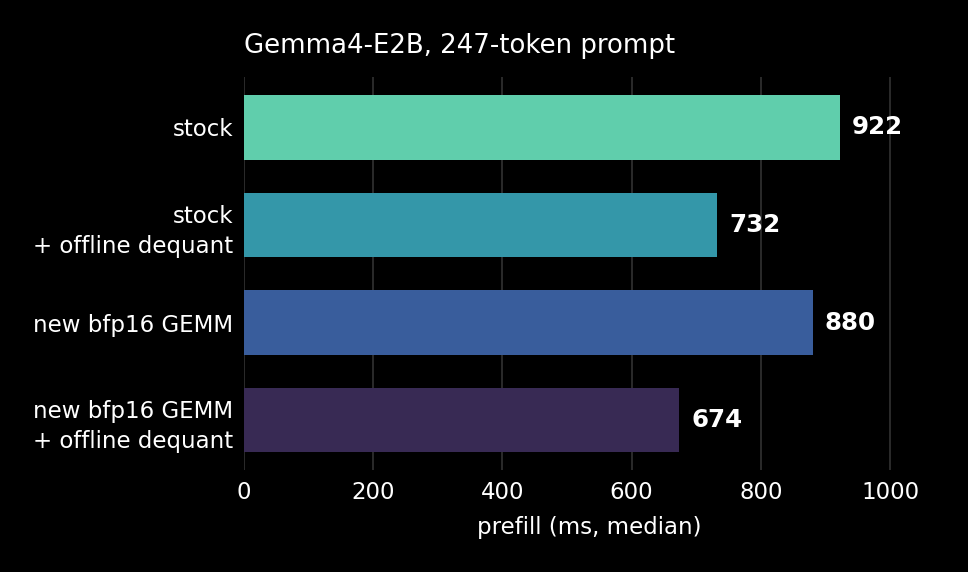
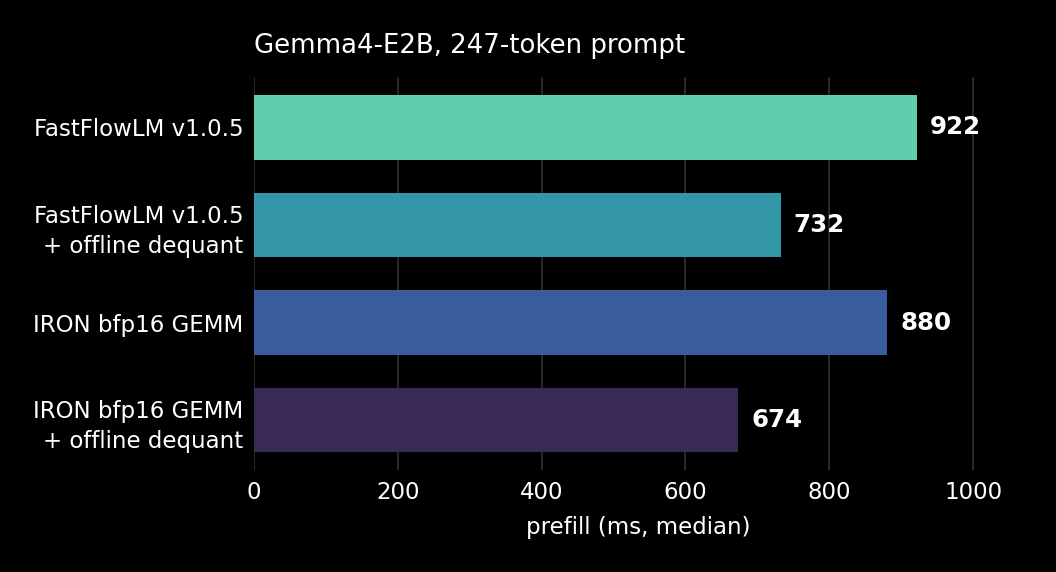
plugins: name the configurations rather than rank them
The README framed the plugin against a baseline it called "stock" and described
its GEMM as the faster kernel. Both are now named for what they are: the
measured engine is FastFlowLM v1.0.5, which is the version the numbers were
taken on, and the override is the IRON bfp16 GEMM. The chart carries the same
two names.

The options are described by what they do and what they cost -- disk and memory
for prefill time, bfp16 rather than bf16 weights -- and the four measurements
are left to speak for themselves.

diff --git a/src/plugins/flm_gemm/tools/plot_prefill.py b/src/plugins/flm_gemm/tools/plot_prefill.py
@@ -18,11 +18,12 @@ import matplotlib.pyplot as plt
 import seaborn as sns
 
 # Bench label -> how the bar reads. Two independent options, so four points.
+BASE = "FastFlowLM v1.0.5"
 NAMES = {
-    "stock": "stock",
-    "bf16": "stock\n+ offline dequant",
-    "dequant": "new bfp16 GEMM",
-    "bfp16": "new bfp16 GEMM\n+ offline dequant",
+    "stock": BASE,
+    "bf16": f"{BASE}\n+ offline dequant",
+    "dequant": "IRON bfp16 GEMM",
+    "bfp16": "IRON bfp16 GEMM\n+ offline dequant",
 }
 
 runs = dict(re.findall(r"^(\S+): median ([\d.]+)", sys.stdin.read(), re.M))
@@ -34,7 +35,7 @@ labels = [b[0] for b in bars]
 values = [b[1] for b in bars]
 
 plt.style.use("dark_background")
-fig, ax = plt.subplots(figsize=(4.4, 2.6), dpi=220)
+fig, ax = plt.subplots(figsize=(4.8, 2.6), dpi=220)
 ax.barh(range(len(values)), values, color=sns.color_palette("mako_r", len(values)),
         height=0.66, edgecolor="none", zorder=3)
 
@@ -43,7 +44,7 @@ for i, value in enumerate(values):
             fontsize=8, fontweight="bold")
 
 ax.set_yticks(range(len(labels)))
-ax.set_yticklabels(labels, fontsize=7.5, linespacing=1.4)
+ax.set_yticklabels(labels, fontsize=7, linespacing=1.4)
 ax.invert_yaxis()
 ax.set_xlim(0, max(values) * 1.16)
 ax.set_xlabel("prefill (ms, median)", fontsize=7.5)

diff --git a/src/plugins/README.md b/src/plugins/README.md
@@ -5,18 +5,21 @@ Plugins let you override individual operators in the end-to-end model without
 rebuilding `flm` or any engine library.
 
 We demonstrate it with a plugin in [`flm_gemm/`](flm_gemm) that overrides two
-operators in Gemma4 E2B: dequant and matrix multiplication. It enables two
-options, independently:
+operators in Gemma4 E2B: dequant and matrix multiplication. It adds two options,
+independently selectable:
 
 - **Offline dequant.** Stops dequantizing the prefill weights at run time.
   Already-dequantized weights (bf16 or bfp16, depending on the option below) are
-  loaded from disk and the dequant step is overridden with a no-op. Faster
-  prefill, more disk and more memory.
-- **New IRON bfp16 GEMM.** Replaces FastFlowLM's matrix multiplication with an
-  open-source implementation from IRON, whose source is
-  [here](https://github.com/amd/IRON/tree/devel/iron/operators/flm/gemm). It is a
-  faster kernel than stock. It operates on bfp16 (block floating point) where the
-  original operates on bf16, so the dequant operator has to be replaced too.
+  loaded from disk and the dequant step is overridden with a no-op. It trades
+  disk and memory for prefill time.
+- **IRON bfp16 GEMM.** Runs the projections on an open-source matrix
+  multiplication from IRON, whose source is
+  [here](https://github.com/amd/IRON/tree/devel/iron/operators/flm/gemm). It
+  operates on bfp16 (block floating point) rather than bf16, so it needs its
+  weights in that format and the dequant operator is replaced along with it.
+
+Prefill of a 247-token prompt on Strix, for each combination, measured on
+FastFlowLM v1.0.5:
 
 ![prefill medians](assets/prefill.png)
 
@@ -92,18 +95,18 @@ nothing was built for is a run-time fallback to the engine.
 
 | variable | effect |
 |---|---|
-| `FLM_GEMM_MODE` | `dequant` (default), `bf16` or `bfp16` — see the chart |
-| `FLM_GEMM_OFF` | leave every projection on the engine's own operators |
+| `FLM_GEMM_MODE` | `dequant` (default), `bf16` or `bfp16` — which weights the GEMM reads |
+| `FLM_GEMM_OFF` | register nothing, leaving FastFlowLM's operators in place |
 | `FLM_GEMM_CONFIG` | pick one GEMM xclbin by stem, when several are present |
 | `FLM_DEQUANT_VERIFY` | check every dequantized buffer against the sidecar, byte for byte |
 
 ## Prefill weights
 
 The two offline modes read weights a converter dequantized ahead of time, next
-to `model.q4nx`. `--mode bf16` writes what the engine's `dequant.xclbin` would
-have written, which is what the shipped GEMM reads (3.45 GiB); `--mode bfp`
-writes the packed form the IRON GEMM takes (1.94 GiB), calling the operator's
-own packer so the layout cannot drift from the kernel's.
+to `model.q4nx`. `--mode bf16` writes what `dequant.xclbin` would have written,
+in the layout FastFlowLM's GEMM reads (3.45 GiB); `--mode bfp` writes the packed
+form the IRON bfp16 GEMM takes (1.94 GiB), calling that operator's own packer so
+the layout cannot drift from its kernel's.
 
 They are also the reference for `FLM_DEQUANT_VERIFY=1`, which checks every
 buffer the dequant produces against them, byte for byte.
@@ -132,7 +135,8 @@ FLM_PLUGIN=$PWD/plugins/flm_gemm/flm_gemm_plugin.so ./flm serve gemma4-it:e2b
 ```
 
 Send a 247-token prompt to `/api/generate` and read `prompt_eval_duration`,
-setting `FLM_GEMM_MODE` for each configuration. Discard the first response and
+setting `FLM_GEMM_MODE` for each configuration and `FLM_GEMM_OFF=1` for the
+unmodified engine. Discard the first response and
 take the median of the rest; run-to-run spread is about 2%, so differences below
 ~40 ms need several runs to see.
 
